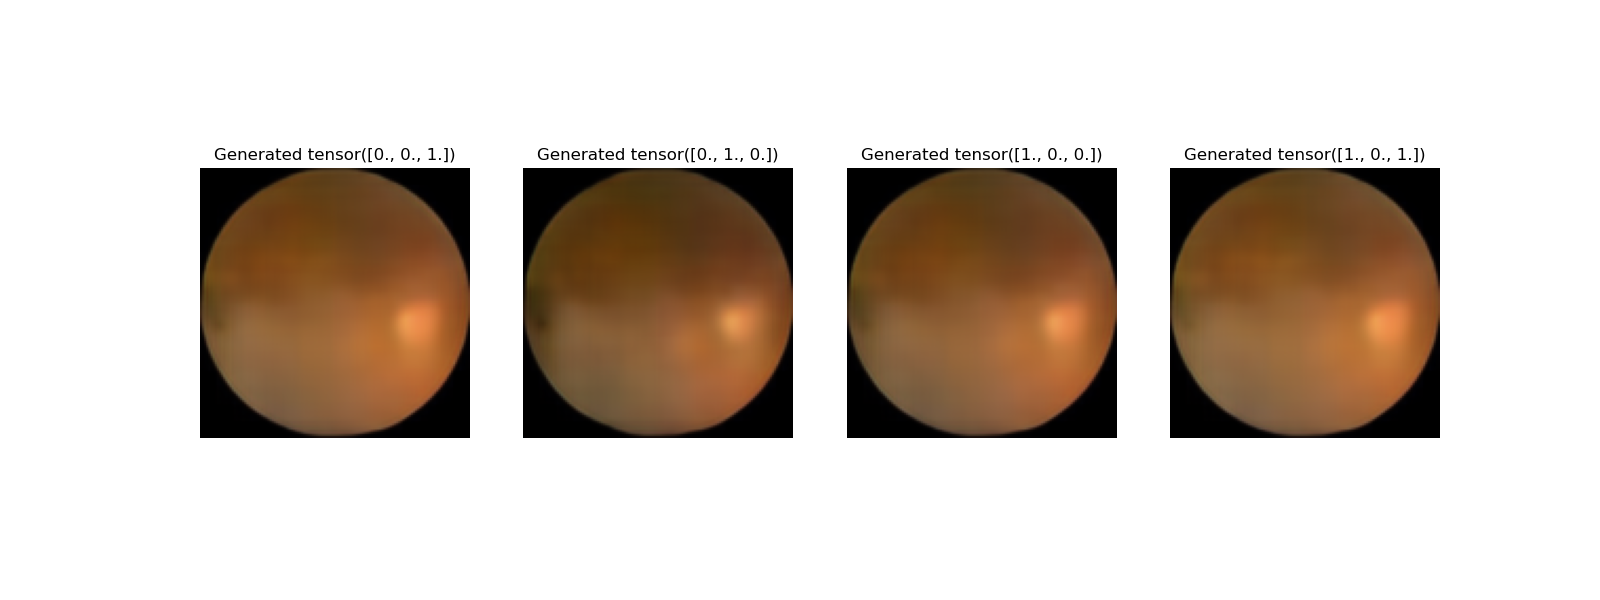
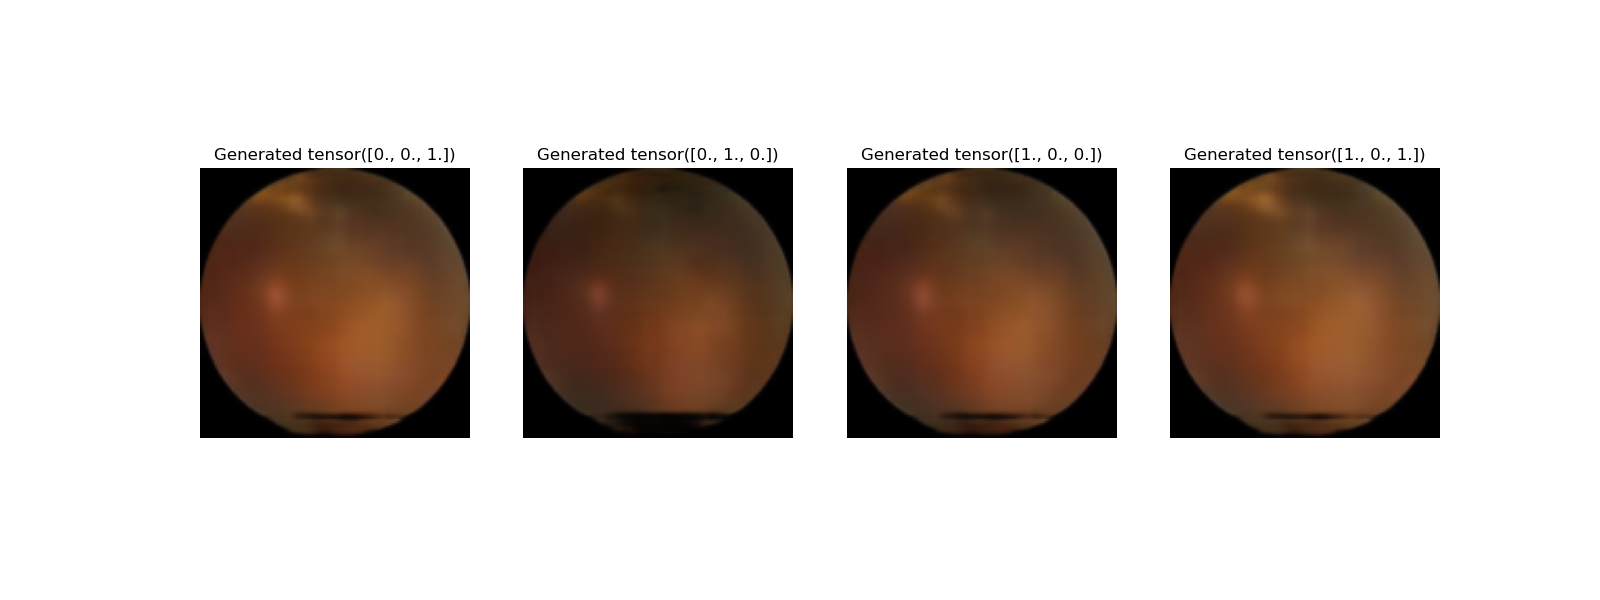
Small update

Changed region(s): [[0.5312, 0.27, 0.9062, 0.75], [0.125, 0.27, 0.5, 0.75]]

diff --git a/task4_vae.py b/task4_vae.py
@@ -23,5 +23,5 @@ training_graphs_vae(results, "task4/cvae_tuning")
 '''
 visualize_reconstructions(encoder, decoder, val_dataset, device=device, num_samples=4, denorm_input=True)
 labels = torch.tensor([[0, 0, 1], [0, 1, 0], [1, 0, 0], [1, 0, 1]],dtype=torch.float).to(device)
-samples = sample(4, decoder=decoder, labels=labels, temp=1, n=3, seed=10)
+samples = sample(4, decoder=decoder, labels=labels, temp=1, n=3, seed=255)
 save_samples(samples, labels, path="task4/generated_cvae")
